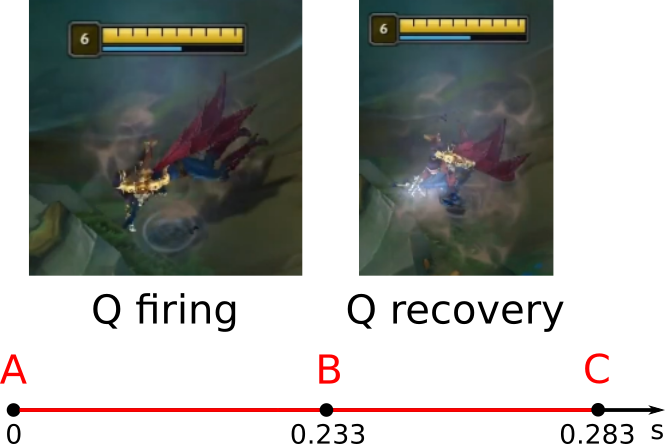
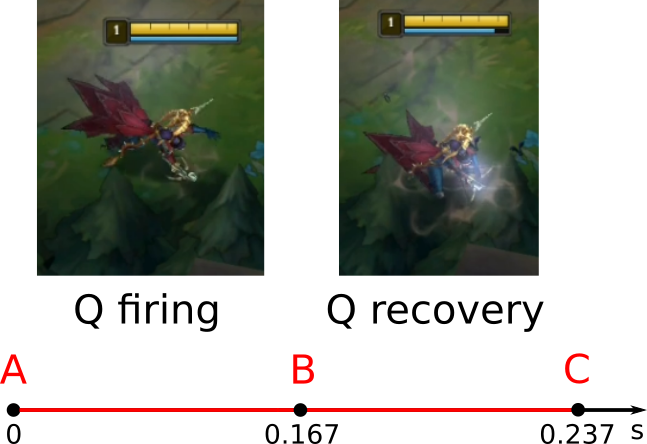
Continue the "Practice. Micromanagement" section

diff --git a/manuscript/Practice/micromanagement.md b/manuscript/Practice/micromanagement.md
@@ -719,27 +719,35 @@ I> Умение Q Vi имеет свойство зарядка (charging), по
 
 3. Сброс таймера автоатаки.
 
-Эти эффекты позволяют увеличить DPS Vayne. В зависимости от ситуации в сражении они могут стать важнее, чем смена позиции чемпиона.
+Эти эффекты позволяют увеличить DPS Vayne. В зависимости от ситуации они могут стать важнее, чем смена позиции чемпиона.
 
 Иллюстрация 3-20 демонстрирует временную диаграмму умения Q Vayne с полной фазой firing.
 
 {caption: "Иллюстрация 3-20. Временная диаграмма умения Vayne Q", width: "100%"}
 ![Умение Vayne Q](images/Practice/vayne-q-ability-animation.png)
 
-В точке A игрок нажимает кнопку Q. После этого происходит два события. Во-первых, Vayne получает все три эффекта от умения: дополнительный урон, uncancellable windup и сброс таймера автоатаки. Во-вторых, Vayne сразу проигрывает фазу анимации firing: делает кувырок в направлении курсора мыши. Его скорость зависит от скорости передвижения чемпиона. Vayne первого уровня без предметов делает полный кувырок примерно за 0.45 секунды. Ему соответствует отрезок A-B на диаграмме.
+В точке A игрок нажимает кнопку Q. После этого происходит два события. Во-первых, Vayne получает все три эффекта от умения: дополнительный урон, uncancellable windup и сброс таймера автоатаки. Во-вторых, Vayne проигрывает фазу анимации firing: делает кувырок в направлении курсора мыши. Скорость кувырка зависит от скорости передвижения чемпиона. Для Vayne первого уровня без предметов фаза firing занимает 0.5 секунды. Этой анимации соответствует отрезок A-B на диаграмме.
 
-В точке B Vayne завершает кувырок. Она Начинает проигрывать фазу анимации recovery: поднимается на ноги. Именно для этого умения её нельзя отменить стандартными способами: атакой, передвижением, другим умением или активным эффектом предмета. Фаза recovery длится примерно 0.183 секунд. Ей соответствует отрезок B-C на диаграмме.
+В точке B Vayne завершает кувырок. Она Начинает проигрывать фазу анимации recovery: поднимается на ноги. Именно для этого умения фазу recovery нельзя отменить стандартными способами: атакой, передвижением, другим умением или активным эффектом предмета. Фаза recovery длится примерно 0.07 секунды. Ей соответствует отрезок B-C на диаграмме.
 
-Только после завершения фазы анимации recovery в точке C Vayne может сделать автоатаку с эффектами от умения. Это означает, что после нажатия Q игроку нужно примерно 0.633 секунды, чтобы воспользоваться усилениями АА.
+Только после завершения фазы анимации recovery в точке C Vayne может сделать автоатаку с эффектами от умения. Это означает, что после нажатия Q игроку нужно примерно 0.57 секунды, чтобы воспользоваться усилениями АА.
 
-Теперь рассмотрим приём преждевременного завершения фазы firing умения Q Vayne. Его исполнение демонстрирует [следующее видео](https://www.youtube.com/watch?v=2A3EFucqXbY). Этот приём значительно сокращает задержку перед автоатакой с эффектами от умения.
+Теперь рассмотрим приём преждевременного завершения фазы firing умения Q Vayne. Его демонстрирует [следующее видео](https://www.youtube.com/watch?v=2A3EFucqXbY). Этот приём значительно сокращает задержку перед автоатакой с эффектами от умения.
 
 Иллюстрация 3-21 демонстрирует временную диаграмму умения Q Vayne с сокращённой фазой firing.
 
 {caption: "Иллюстрация 3-21. Временная диаграмма умения Vayne Q с сокращённой фазой firing", width: "100%"}
 ![Умение Vayne Q без firing](images/Practice/vayne-q-no-firing.png)
 
->>>>
+I> Чтобы качественно исполнить приём, Vayne должна стоять вплотную к стенке. В этом случае фаза анимация firing займёт минимальное время.
+
+В точке A игрок наводит курсор мыши в сторону стены и нажимает Q. Vayne начинает кувырок и получает эффекты от умения. При правильном исполнении приёма эта фаза должна занять примерно 0.167 секунды.
+
+В точке B Vayne преждевременно завершает кувырок, потому что не может двигаться из-за стены. Она проигрывает фазу анимации recovery. Эта фаза длится 0.07 секунды, как обычно.
+
+В точке C спустя 0.237 секунды после нажатия Q Vayne может сделать автоатаку. Приём уменьшил задержку перед АА на `0.57-0.237 = 0.333` секунды. В командном сражении это может оказаться решающим фактором.
+
+>>>
 
 // TODO: Рассказать про направление умения Vayne Q в стену.
 
